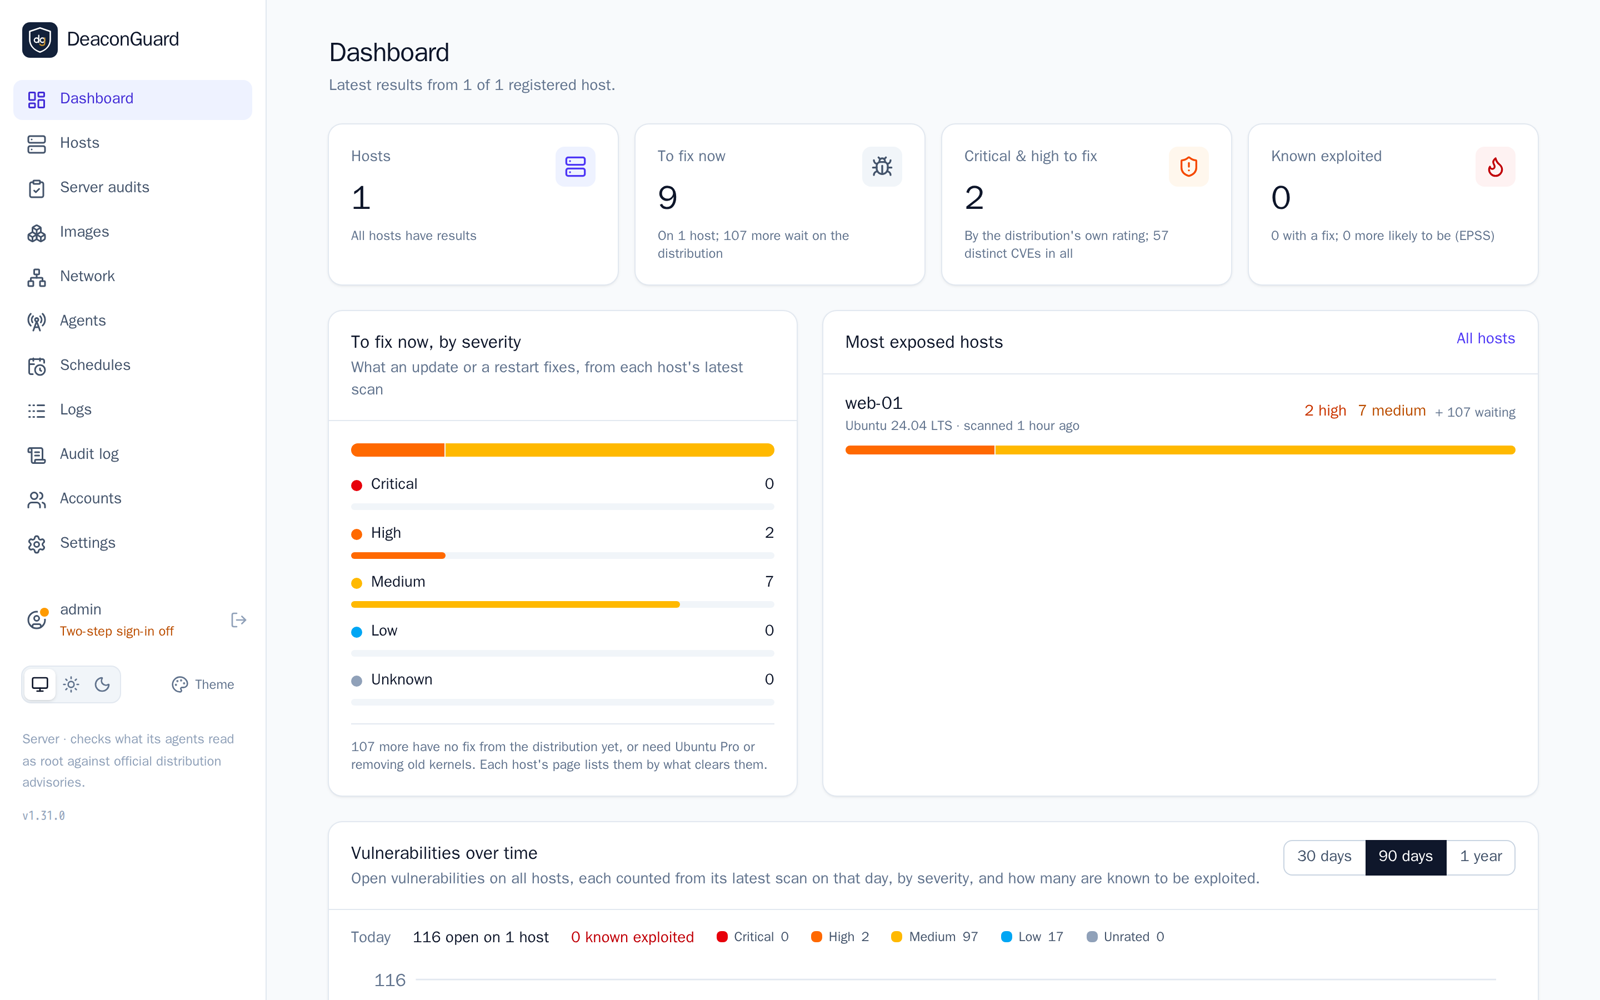
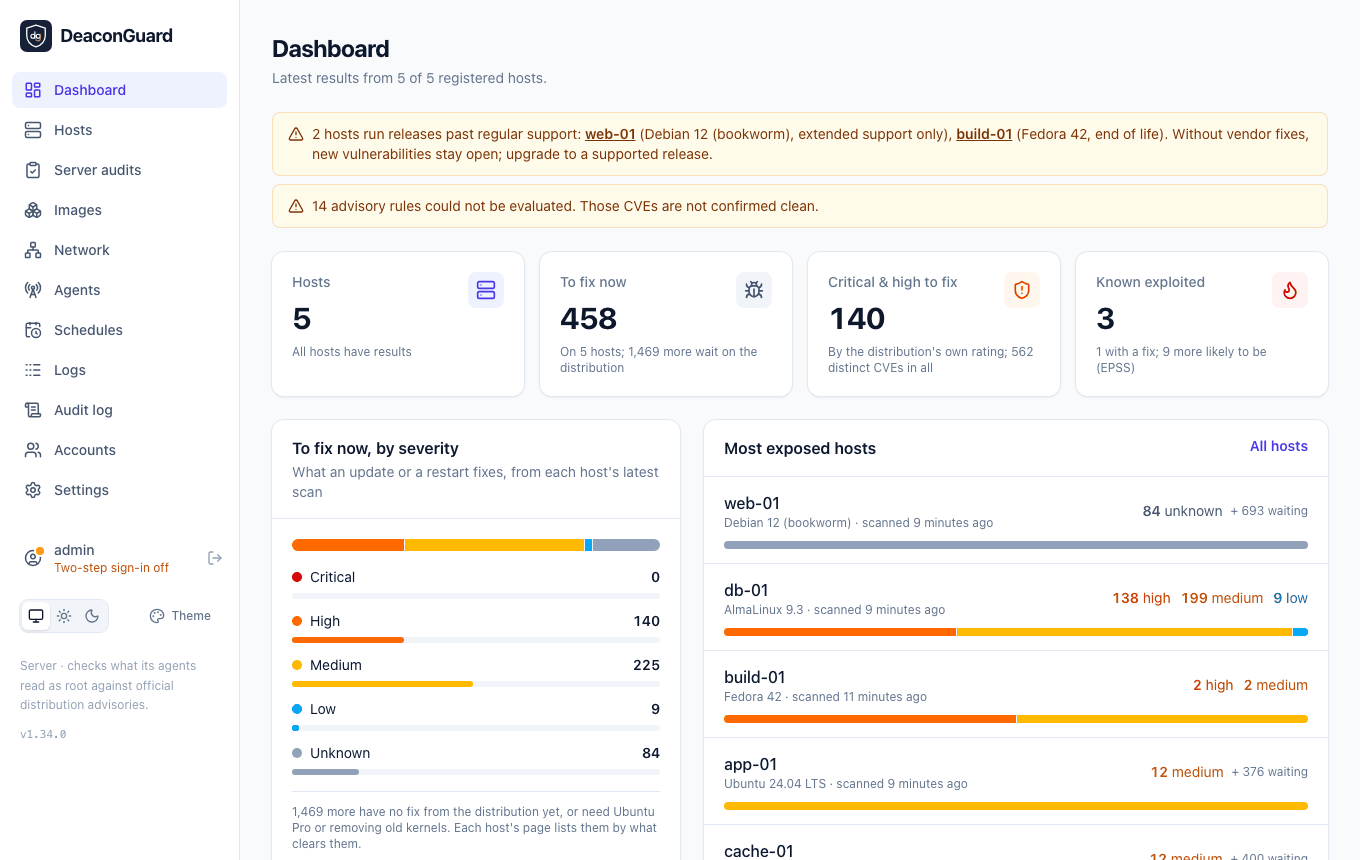
README: current screenshots

diff --git a/README.md b/README.md
@@ -28,7 +28,7 @@ The dashboard after the first scan, a host's attack paths, and its configuration
 
 <img src="assets/screenshots/host-attack-paths.png" alt="A host's attack paths: the deploy account can become root through a sudo rule without a password." width="100%">
 
-<img src="assets/screenshots/host-configuration.png" alt="A host's configuration findings: SSH password login, X11 forwarding, automatic updates off and no host firewall, each with its evidence." width="100%">
+<img src="assets/screenshots/host-configuration.png" alt="A host's configuration findings: SSH lets root log in with a password, password login and X11 forwarding are on, each with its evidence and how to fix it." width="100%">
 
 ## How it works
 
